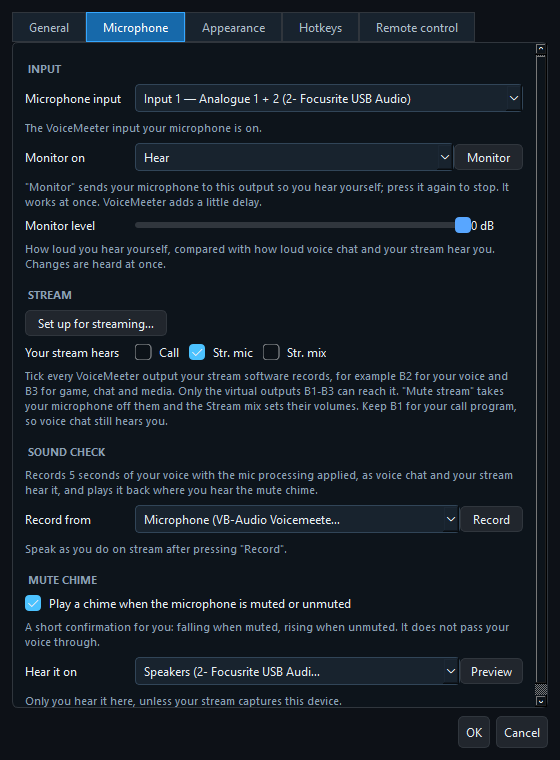
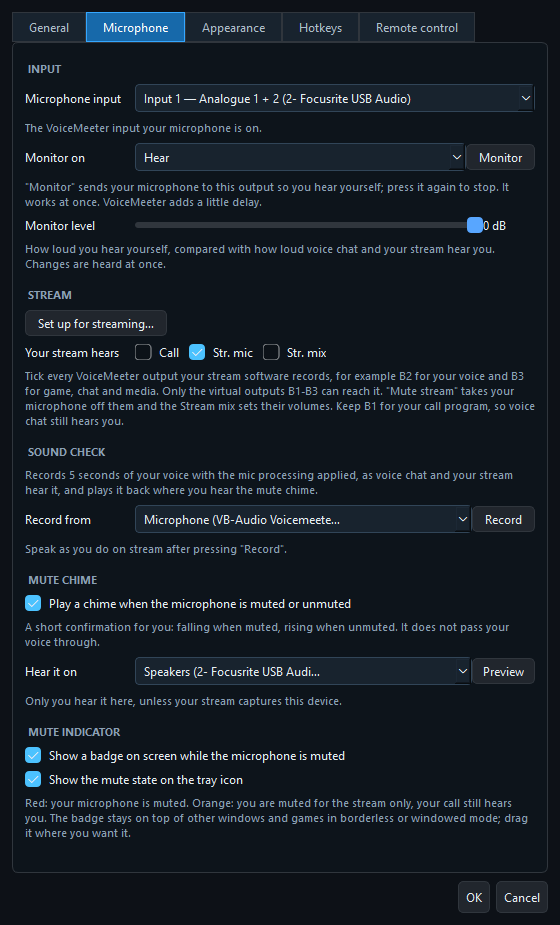
chore(release): version 1.14.0
Bump APP_VERSION to 1.14.0 for the mute indicator, the window for a
missing VoiceMeeter and the settings window that opens at full size.
The README describes the badge, the tray dot and the missing
VoiceMeeter window, puts extra channels through VB-CABLE on the
roadmap, and shows the Microphone tab with its new section.

Changed region(s): [[0.0304, 0.0, 0.9714, 0.9987]]

diff --git a/main.py b/main.py
@@ -869,7 +869,7 @@ class ColorButton(QPushButton):
 # Updates. FaderDeck asks GitHub for its latest release. An update is that
 # release's installer, checked against the SHA-256 that GitHub publishes for
 # it before it runs.
-APP_VERSION = "1.13.0"
+APP_VERSION = "1.14.0"
 UPDATE_URL = (
     "https://api.github.com/repos/GuyliandeJong/FaderDeck/releases/latest"
 )

diff --git a/README.md b/README.md
@@ -18,6 +18,8 @@ Prefer no installer? The release also has **FaderDeck.exe**, which runs as it is
 
 The first time FaderDeck opens, a short welcome recommends the **streaming setup** (also under Settings, Microphone): one click sends your voice to your call and your stream and your sound to your headphones and your stream, and it tells you what to pick in your call program and OBS.
 
+Without VoiceMeeter Potato installed, FaderDeck says so instead, explains the install and the restart it needs, and links to the download page.
+
 ## Preview
 
 ![FaderDeck interface](screenshots/faderdeck.png)
@@ -93,9 +95,10 @@ Save your whole setup under a name and load it again with one click: gain, mute,
 - **Monitor**: hear your own microphone on your headphones
 - **Mute stream**: mute your microphone for the stream only, while voice chat still hears you
 - **Monitor level**: hear yourself quieter than others hear you (Settings, Microphone)
+- **Mute indicator**: a small badge on screen while you are muted, red for muted and orange when only the stream does not hear you; drag it where you want it. Off by default (Settings, Microphone)
 - **Sound check**: record five seconds of your voice with the mic processing applied, as voice chat and your stream hear it, and hear it back (Settings, Microphone)
 
-Monitor is a button in Settings, Microphone, under the microphone input. Mute stream is a button under Mic Processing. Both are also in the tray menu and on the phone remote, and Mute stream has a hotkey. Choose under Settings, Microphone which output you monitor on and which one your stream hears. Mute stream only works when your stream software takes the microphone from an output of its own: in OBS, use VoiceMeeter Out B2 for the microphone and keep B1 for Discord (see Stream Mix for a full setup).
+Monitor is a button in Settings, Microphone, under the microphone input. Mute stream is a button under Mic Processing. Both are also in the tray menu and on the phone remote, and Mute stream has a hotkey. Choose under Settings, Microphone which output you monitor on and which one your stream hears. Mute stream only works when your stream software takes the microphone from an output of its own: in OBS, use VoiceMeeter Out B2 for the microphone and keep B1 for your call program (see Stream Mix for a full setup).
 
 ![Microphone settings](screenshots/settings-microphone.png)
 
@@ -116,6 +119,7 @@ A hotkey is taken from every other program while FaderDeck runs, so pick combina
 
 - Closing the window keeps FaderDeck running in the tray; click the icon to show it again
 - The tray menu has Show, Mute microphone and Quit
+- The tray icon gets a red dot while the microphone is muted, orange while only the stream is muted (can be turned off in Settings, Microphone)
 - Hold Shift while closing the window to quit at once
 - Optional: start minimised to the tray
 - Starting FaderDeck a second time shows the running one instead of opening another
@@ -386,12 +390,13 @@ The core mixer, microphone processing, application routing, live audio meters, a
 
 ## Roadmap
 
-Done so far: reconnect, meters on every channel, global hotkeys for mute, volume and profiles, system tray, settings window, voice presets, setup profiles, single running instance, compact view, remote control, your own channel names, themes with light mode and your own colours, an installer, automatic updates, push to talk and hold to mute, monitor and mute stream, a phone and tablet remote, a separate stream mix, monitor level and sound check, a Stream Deck plugin.
+Done so far: reconnect, meters on every channel, global hotkeys for mute, volume and profiles, system tray, settings window, voice presets, setup profiles, single running instance, compact view, remote control, your own channel names, themes with light mode and your own colours, an installer, automatic updates, push to talk and hold to mute, monitor and mute stream, a phone and tablet remote, a separate stream mix, monitor level and sound check, a Stream Deck plugin, a streaming setup, a mute indicator on screen and in the tray.
 
 Next, roughly in this order:
 
-1. Support for VoiceMeeter Banana and the standard edition
-2. MIDI controllers as physical faders
+1. More channels than Game, Chat and Media, through VB-CABLE on VoiceMeeter's free hardware inputs
+2. Support for VoiceMeeter Banana and the standard edition
+3. MIDI controllers as physical faders
 
 Postponed: a signed EXE, so Windows does not warn about it. It needs a paid code-signing certificate.
 
